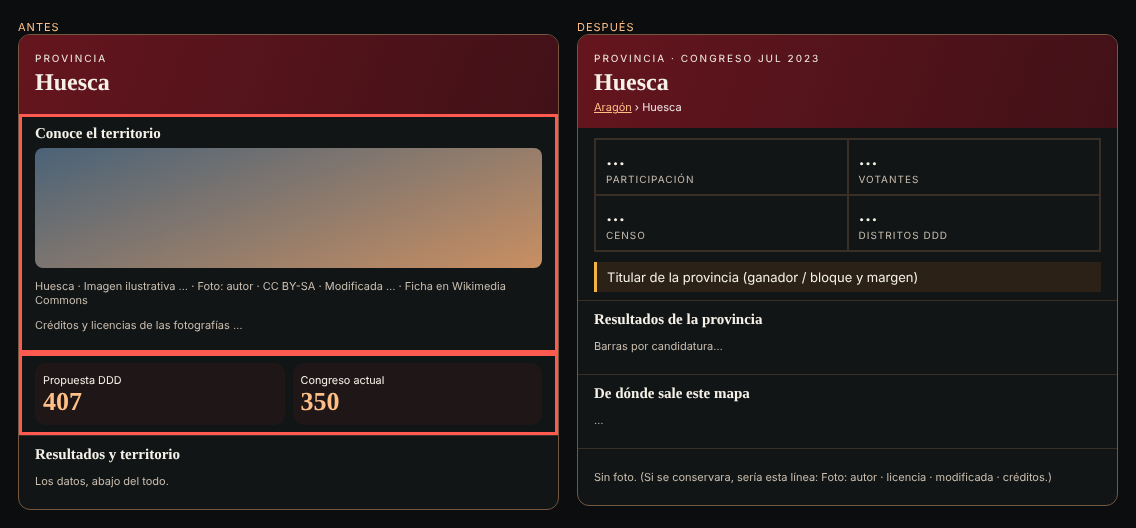
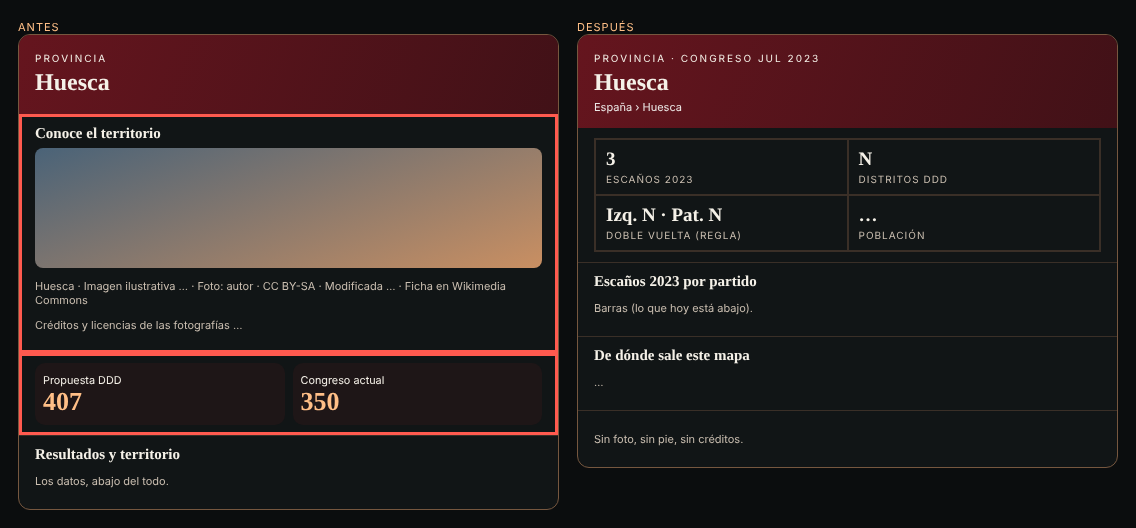
T-458: diseño 1.3.0 con el rumbo del propietario (colores firmes, panel con datos arriba, ventana emergente del distrito)

diff --git a/docs/ESTUDIOS/T458_mapa_v4/maqueta.html b/docs/ESTUDIOS/T458_mapa_v4/maqueta.html
@@ -1,7 +1,6 @@
 <!doctype html>
 <!-- PROYECTO: Diputado de Distrito · CLASE: maqueta de diseño T-458 (no se publica) · VERSIÓN: 1.0.0 · FECHA: 2026-11-24 · ESTADO: propuesta
-     ANTERIOR: ninguna (fichero nuevo). Datos de EJEMPLO salvo la ficha de sección, que usa la sección 2212504001
-     (Huesca) del ZIP oficial de Interior 02202307_MESA.zip (sha256 e78fc231…17f8), solo para ilustrar el diseño. -->
+     ANTERIOR: ninguna (fichero nuevo). Datos de EJEMPLO, solo para ilustrar el diseño. -->
 <html lang="es"><head><meta charset="utf-8"><title>T-458 maqueta</title>
 <style>
 body{margin:0;background:#0b0d0e;color:#f5f1e8;font:13px system-ui,sans-serif}
@@ -26,21 +25,8 @@ a{color:#ffbf87}
 <section class="lam" id="colores">
  <div><span class="tag">Antes · tema oscuro del sistema</span><h2>Vista mayoritaria hoy</h2><div class="map" id="m0" style="background:#eef3f7"></div><div class="ley" id="l0"></div>
   <p class="nota">Tokens de tema oscuro (#ff8a80, #4fd1c5, #7fb2ff) + aclarado del 55 % + opacidad 0,84-0,88 sobre fondo claro #eef3f7 y bordes blancos.</p></div>
- <div><span class="tag">Después · patrón de la referencia</span><h2>Tonos firmes sobre fondo oscuro</h2><div class="map" id="m1" style="background:#0b0d0e"></div><div class="ley" id="l1"></div>
-  <p class="nota">Fondo #0b0d0e, opacidad 0,88 (1 al pasar el ratón), bordes oscuros, 4 escalones por ventaja (≤ 2, ≤ 5, ≤ 10, &gt; 10 puntos): a más ventaja, más intenso.</p></div>
-</section>
-<!-- LÁMINA 2: ficha de sección -->
-<section class="lam" id="ficha">
- <div><span class="tag">Antes · clic en una sección</span>
-  <div class="panel"><div class="hero"><small>Sección censal INE</small><h1>Sección 2212504001</h1><p>Huesca › Distrito 4</p></div>
-  <div class="sec"><dl><div><dt>Población</dt><dd>…</dd></div><div><dt>Distrito DDD</dt><dd>4</dd></div><div class="mal"><dt>Ganador del distrito 2023</dt><dd>(el del distrito)</dd></div></dl></div>
-  <div class="sec mal"><h3>Doble vuelta · distrito 4 · Tres bloques</h3><p>Gana … en el distrito 4</p><p class="nota">Igual para todas las secciones del distrito.</p></div></div></div>
- <div><span class="tag">Después · datos reales de la sección (ZIP de Interior)</span>
-  <div class="panel"><div class="hero"><small>Sección · Congreso jul 2023</small><h1>Huesca · 04-001</h1><p><a href="#">Aragón</a> › <a href="#">Huesca</a> › <a href="#">Distrito N</a> › 04-001</p></div>
-  <div class="kpi"><div><strong>61,2 %</strong><span>Participación</span></div><div><strong>913</strong><span>Votantes</span></div><div><strong>1.491</strong><span>Censo</span></div><div><strong>12,9</strong><span>Margen 1.º-2.º</span></div></div>
-  <p class="titular"><b>PSOE</b> supera a <b>PP</b> por <b>12,9</b> puntos en esta sección</p>
-  <div class="sec"><h3>900 votos a candidaturas</h3><div class="row"><b>PSOE</b><div class="tr"><b style="width:100%;background:#d32b2b"></b></div><span>364</span><span>40,4 %</span></div><div class="row"><b>PP</b><div class="tr"><b style="width:68%;background:#1d6fb8"></b></div><span>248</span><span>27,6 %</span></div><div class="row"><b>VOX</b><div class="tr"><b style="width:43%;background:#5fa335"></b></div><span>155</span><span>17,2 %</span></div><div class="row"><b>SUMAR</b><div class="tr"><b style="width:29%;background:#cf2a7b"></b></div><span>106</span><span>11,8 %</span></div>
-   <p class="nota">Origen de los datos: Ministerio del Interior, resultados por mesa sumados por sección.</p></div></div></div>
+ <div><span class="tag">Después · como «Partido más votado»</span><h2>Tonos firmes, mismo mapa</h2><div class="map" id="m1" style="background:#eef3f7"></div><div class="ley" id="l1"></div>
+  <p class="nota">Mismo fondo y mismos bordes; bloques con los tonos firmes de la capa de partidos (#d32b2b, #0f7a52, #1d6fb8, #5b6470), opacidad 0,88 como esa capa y sin aclarado.</p></div>
 </section>
 <!-- LÁMINA 3: panel derecho -->
 <section class="lam" id="panel">
@@ -48,22 +34,26 @@ a{color:#ffbf87}
   <div class="sec mal"><h3>Conoce el territorio</h3><div class="foto"></div><p class="nota">Huesca · Imagen ilustrativa … · Foto: autor · CC BY-SA · Modificada … · Ficha en Wikimedia Commons</p><p class="nota">Créditos y licencias de las fotografías …</p></div>
   <div class="cards mal"><div><small>Propuesta DDD</small><strong>407</strong></div><div><small>Congreso actual</small><strong>350</strong></div></div>
   <div class="sec"><h3>Resultados y territorio</h3><p class="nota">Los datos, abajo del todo.</p></div></div></div>
- <div><span class="tag">Después</span><div class="panel"><div class="hero"><small>Provincia · Congreso jul 2023</small><h1>Huesca</h1><p><a href="#">Aragón</a> › Huesca</p></div>
-  <div class="kpi"><div><strong>…</strong><span>Participación</span></div><div><strong>…</strong><span>Votantes</span></div><div><strong>…</strong><span>Censo</span></div><div><strong>…</strong><span>Distritos DDD</span></div></div>
-  <p class="titular">Titular de la provincia (ganador / bloque y margen)</p>
-  <div class="sec"><h3>Resultados de la provincia</h3><p class="nota">Barras por candidatura…</p></div>
+ <div><span class="tag">Después</span><div class="panel"><div class="hero"><small>Provincia · Congreso jul 2023</small><h1>Huesca</h1><p>España › Huesca</p></div>
+  <div class="kpi"><div><strong>3</strong><span>Escaños 2023</span></div><div><strong>N</strong><span>Distritos DDD</span></div><div><strong>Izq. N · Pat. N</strong><span>Doble vuelta (regla)</span></div><div><strong>…</strong><span>Población</span></div></div>
+  <div class="sec"><h3>Escaños 2023 por partido</h3><p class="nota">Barras (lo que hoy está abajo).</p></div>
   <div class="sec"><h3>De dónde sale este mapa</h3><p class="nota">…</p></div>
-  <div class="sec"><p class="nota">Sin foto. (Si se conservara, sería esta línea: Foto: autor · licencia · modificada · créditos.)</p></div></div></div>
+  <div class="sec"><p class="nota">Sin foto, sin pie, sin créditos.</p></div></div></div>
 </section>
-<!-- LÁMINA 4: navegación distrito ↔ sección -->
-<section class="lam" id="navegacion">
- <div><span class="tag">Antes · nivel sección</span><h2>Todas del color del distrito</h2><svg id="s0" width="520" height="300" style="background:#eef3f7;border-radius:10px"></svg>
-  <p class="nota">Sin resaltado; los límites de distrito desaparecen al bajar a secciones; el clic no cambia nada visible.</p></div>
- <div><span class="tag">Después · datos de EJEMPLO</span><h2>Cada sección, su color</h2><svg id="s1" width="520" height="300" style="background:#0b0d0e;border-radius:10px"></svg>
-  <p class="nota">Color por lo más votado en la sección; límite de distrito crema encima; sección elegida con trazo #f2b544 y opacidad 1; otro clic la cambia.</p></div>
+<!-- LÁMINA 4: clic en un distrito -->
+<section class="lam" id="distrito">
+ <div><span class="tag">Antes · clic en un distrito</span><h2>Salta a secciones</h2><svg id="d0" width="520" height="300" style="background:#eef3f7;border-radius:10px"></svg>
+  <p class="nota">El mapa se acerca hasta zoom 12; al pasar de 7,2 cambia solo a «Sección censal» y oculta los distritos; el distrito clicado desaparece.</p></div>
+ <div><span class="tag">Después · datos de EJEMPLO</span><h2>Pop-up del distrito, sin bajar</h2><div style="position:relative"><svg id="d1" width="520" height="300" style="background:#eef3f7;border-radius:10px"></svg>
+  <div style="position:absolute;left:250px;top:40px;width:230px;background:#111516;border:1px solid #76573f;border-radius:10px;padding:10px 12px;box-shadow:0 6px 22px #0006">
+   <small style="letter-spacing:1px;text-transform:uppercase;color:#ffbf87;font-size:10px">Distrito · Huesca</small><h3 style="font:700 17px Georgia,serif;margin:2px 0 6px">Distrito 2</h3>
+   <p style="margin:0 0 6px"><b style="color:#ff8a80">Izquierdas</b> gana en 2.ª vuelta (Tres bloques)</p>
+   <dl><div><dt>1.ª vuelta, más votado</dt><dd>…</dd></div><div><dt>2.ª vuelta</dt><dd>… % – … %</dd></div><div><dt>Población · desviación</dt><dd>… · … %</dd></div></dl>
+   <p class="nota" style="margin:6px 0 0">Ficha completa en el panel →</p></div></div>
+  <p class="nota">El mapa encuadra la provincia (no el distrito) y se queda en distritos; el distrito elegido, con borde grueso; otro clic cambia el pop-up.</p></div>
 </section>
 <script>
-const S={izq:["#f2707a","#e0303d","#c1121f","#8e0d17"],pat:["#6f95e8","#3f6fdb","#1d4fc0","#12368a"],nac:["#4fc1a8","#1e9c82","#00796b","#00544a"],sin:["#8a8f94"]};
+const S={izq:["#d32b2b"],pat:["#1d6fb8"],nac:["#0f7a52"],sin:["#5b6470"]};
 const P0={izq:"#ff8a80",nac:"#4fd1c5",pat:"#7fb2ff",sin:"#a8b0bb"};
 const mix=(h,t)=>{const n=parseInt(h.slice(1),16);return"#"+[n>>16,(n>>8)&255,n&255].map(c=>Math.round(c+(255-c)*t).toString(16).padStart(2,"0")).join("")};
 const N={izq:"Izquierdas",nac:"Nacionalistas",pat:"Patriotas",sin:"Sin bloque"};
@@ -71,14 +61,12 @@ let r=11;const rnd=()=>{r=(r*9301+49297)%233280;return r/233280};
 const A=Array.from({length:24},()=>{const k=["izq","pat","izq","pat","nac","sin"][Math.floor(rnd()*6)];return[k,Math.floor(rnd()*4)]});
 document.getElementById("m0").innerHTML=A.map(([k,s])=>`<i style="background:${s<1?mix(P0[k],.55):P0[k]};opacity:.86;outline:1px solid #fff"></i>`).join("");
 document.getElementById("l0").innerHTML=Object.keys(N).map(k=>`<span><b style="background:${P0[k]}"></b><b style="background:${mix(P0[k],.55)}"></b>${N[k]}</span>`).join("");
-document.getElementById("m1").innerHTML=A.map(([k,s])=>`<i style="background:${S[k][Math.min(s,S[k].length-1)]};opacity:.88"></i>`).join("");
+document.getElementById("m1").innerHTML=A.map(([k,s])=>`<i style="background:${S[k][0]};opacity:.88;outline:1px solid #fff"></i>`).join("");
 document.getElementById("l1").innerHTML=Object.keys(N).map(k=>`<span>${S[k].map(c=>`<b style="background:${c}"></b>`).join("")}${N[k]}</span>`).join("");
-(function(){const W=10,H=6,cw=48,ch=46,ox=20,oy=10;let q=7;const rn=()=>{q=(q*9301+49297)%233280;return q/233280};
-const dist=(i,j)=>i<5?(j<3?0:1):(j<3?2:3);const dc=[["izq",0],["pat",0],["pat",1],["izq",1]];
-const cell=(i,j,f,s,w,o)=>`<rect x="${ox+i*cw}" y="${oy+j*ch}" width="${cw}" height="${ch}" fill="${f}" fill-opacity="${o}" stroke="${s}" stroke-width="${w}"/>`;
-let a="",b="";for(let i=0;i<W;i++)for(let j=0;j<H;j++){const d=dc[dist(i,j)];a+=cell(i,j,d[1]?mix(P0[d[0]],.55):P0[d[0]],"#fff",.6,.86);
- const k=rn()<.55?d[0]:["izq","pat","nac"][Math.floor(rn()*3)];b+=cell(i,j,S[k][Math.floor(rn()*4)],"#0b0d0e",.6,.88);}
-const lin=`<path d="M${ox+5*cw} ${oy}V${oy+H*ch}M${ox} ${oy+3*ch}H${ox+W*cw}" stroke="#f5f1e8" stroke-width="2" fill="none"/><rect x="${ox}" y="${oy}" width="${W*cw}" height="${H*ch}" fill="none" stroke="#f5f1e8" stroke-width="2"/>`;
-const sel=`<rect x="${ox+6*cw}" y="${oy+ch}" width="${cw}" height="${ch}" fill="${S.izq[3]}" stroke="#f2b544" stroke-width="3"/>`;
-document.getElementById("s0").innerHTML=a;document.getElementById("s1").innerHTML=b+lin+sel;})();
+(function(){const W=10,H=6,cw=48,ch=46,ox=20,oy=10;const blk=[["#d32b2b","#1d6fb8"],["#1d6fb8","#d32b2b"]];
+let a="",b="";for(let i=0;i<W;i++)for(let j=0;j<H;j++){const c=i<5?(j<3?"#ff8a80":"#c5dcff"):(j<3?"#7fb2ff":"#ffcac6");a+=`<rect x="${ox+i*cw}" y="${oy+j*ch}" width="${cw}" height="${ch}" fill="${c}" fill-opacity=".86" stroke="#fff" stroke-width=".6"/>`;}
+const D=[[0,0,5,3,"#d32b2b"],[5,0,5,3,"#1d6fb8"],[0,3,5,3,"#1d6fb8"],[5,3,5,3,"#d32b2b"]];
+for(const[x,y,w,h,c]of D)b+=`<rect x="${ox+x*cw}" y="${oy+y*ch}" width="${w*cw}" height="${h*ch}" fill="${c}" fill-opacity=".88" stroke="#fff" stroke-width="1"/>`;
+b+=`<rect x="${ox}" y="${oy+3*ch}" width="${5*cw}" height="${3*ch}" fill="none" stroke="#111" stroke-width="5"/><rect x="${ox}" y="${oy+3*ch}" width="${5*cw}" height="${3*ch}" fill="none" stroke="#fff" stroke-width="2"/>`;
+document.getElementById("d0").innerHTML=a;document.getElementById("d1").innerHTML=b;})();
 </script></body></html>

diff --git a/docs/ESTUDIOS/T458_mapa_v4/T458_DISENO_MAPA_V4.md b/docs/ESTUDIOS/T458_mapa_v4/T458_DISENO_MAPA_V4.md
@@ -1,173 +1,97 @@
 # T-458 · Diseño al detalle del mapa de la V4 (Explorar)
 
-VERSIÓN: 1.2.0 · FECHA: 2026-11-24 · ESTADO: propuesta para aprobación del propietario
-CAMBIOS 1.2.0: rehecho a partir de la referencia del propietario (el Observatorio, nazioenbehatokia.eus): comparación
-  pantalla a pantalla, paleta y tonos de allí, panel con los datos arriba y sin foto, datos por sección del Observatorio
-  con cuadre contra nuestro ZIP oficial; preguntas rehechas (incluye 5-7).
-CAMBIOS 1.1.0: puntos (5) navegación por distrito, (6) color propio de cada sección y (7) interacción con secciones.
-MOTIVO: comentarios del propietario vía Coordinador (24-11).
-ANTERIOR: 1.1.0 en el commit a0bb74c y 1.0.0 en b90579e de esta misma PR (documento sin fusionar; sin copia en `legacy/`)
+VERSIÓN: 1.3.0 · FECHA: 2026-11-25 · ESTADO: propuesta para aprobación del propietario
+CAMBIOS 1.3.0: corrección de rumbo del propietario (25-11): nuestro mapa, sin copiar otra web; colores firmes como la capa de
+  resultados; panel con los datos arriba; clic en distrito con ventana emergente y sin bajar a secciones. Fuera por ahora: nivel de
+  sección, producto de votos por sección, fondo oscuro y paleta ajena. Preguntas reducidas a las imprescindibles.
+CAMBIOS 1.2.0 y 1.1.0 (commits 8baaf19 y a0bb74c de esta PR): versión sobre la web de referencia y puntos 5-7; sustituidas.
+MOTIVO: comentarios del propietario vía Coordinador.
+ANTERIOR: 1.2.0 en el commit 8baaf19 de esta misma PR (documento sin fusionar; sin copia en `legacy/`)
 
-Objeto: `visor/v4/mapa/` (`index.html` 1.3.0, `explorar.js`, `explorar.css`, `dv.js`). Solo diseño; nada de código de
-producto hasta que el propietario apruebe. Capturas: `antes_visor_actual.png` (nuestro visor servido en local),
-`referencia/*.png` (el Observatorio, 24-11-2026, Huesca, solo para comparar) y láminas de `maqueta.html`.
+Objeto: `visor/v4/mapa/` (`index.html` 1.3.0, `explorar.js`, `explorar.css`). Solo diseño; ningún cambio de código de producto
+hasta que el propietario apruebe. Capturas: `antes_visor_actual.png` (nuestro visor servido en local) y las láminas de
+`maqueta.html` (`colores.png`, `panel.png`, `distrito.png`; datos de ejemplo).
 
-## 0. La referencia: qué hace el Observatorio
+## 1. Mapa: mismo mapa, colores firmes y sin pérdida de nitidez
 
-| Pantalla | Observatorio | DDD hoy |
+### Por qué la vista mayoritaria (doble vuelta) se ve en azul difuso
+La capa «Partido más votado» (la vista de resultados) pinta con la `PALETA` de partidos (`PP #1d6fb8`, `PSOE #d32b2b`, …),
+opacidad 0,88 y sin mezclas: es la referencia de firmeza. La doble vuelta no:
+1. `bloques()` toma los tokens de `tokens-bloques.css`; con el sistema en tema oscuro son pasteles pensados para texto sobre
+   fondo oscuro: Patriotas `#7fb2ff`, Izquierdas `#ff8a80`, Nacionalistas `#4fd1c5`, Sin bloque `#a8b0bb`.
+2. `aclarar()` los mezcla un 55 % con blanco cuando la ventaja es < 5 puntos (Patriotas pasa a `#c5dcff`).
+3. Encima, la opacidad 0,88 deja ver el fondo azulado `#eef3f7`.
+
+### Nitidez: revisado
+- **Geometría de distritos del mapa** (`datos/<territorio>/distritos.geojson`, `herramientas/generar_datos_abiertos.py`): sin
+  simplificación ni redondeo. No pierde resolución.
+- **Geometría pública de la doble vuelta** (`herramientas/publicar_doble_vuelta.py`): Douglas-Peucker por anillo, 0,0005°
+  (≈ 55 m), 5 decimales. Hoy el mapa no la dibuja (pinta la de `datos/`); si algún día la usara, simplificar por anillo
+  deja huecos y solapes entre distritos vecinos: no usarla para dibujar.
+- **Pérdida real de nitidez: los colores**, no la geometría (los tres puntos de arriba). La opacidad 0,88 es la misma que en la
+  capa de partidos y se mantiene igual en las dos.
+
+### Propuesta
+- Bloques con tonos firmes de la familia de la capa de partidos, fijos en tema claro y oscuro (el mapa no cambia de tema):
+
+| Bloque | Hoy en tema oscuro | Propuesta |
 |---|---|---|
-| Fondo y bordes | Fondo oscuro `#0C131A`; bordes oscuros finos (0,3 px sección, 0,6 px resto) | Fondo claro `#eef3f7`; bordes blancos |
-| Relleno | Color propio del partido o del bloque, opacidad 0,88; 1 al pasar el ratón | Pasteles del tema oscuro aclarados un 55 %, opacidad 0,82-0,88 |
-| Niveles | Selector «Automático (según el zoom)» y niveles fijos; el clic funciona en todos | Salto a secciones al acercar que oculta los distritos |
-| Clic | Resalta (trazo `#F2B544` de 2,5 px, `feature-state` `sel`) y abre la ficha de ESE territorio | Sin resaltado; la ficha de sección da datos del distrito |
-| Otro clic | Cambia la selección y la ficha (secciones 07-004 → 04-001 en las capturas) | Parece muerto |
-| Paso del ratón | Etiqueta: nombre, participación, margen, más votado y % | No hay |
-| Panel derecho | Arriba: nombre, nivel y elección, ruta clicable, 4 cifras (participación, votantes, censo, margen 1.º-2.º), titular «X supera a Y por N puntos», barras por candidatura | Arriba: foto con pie y licencia; 407/350; los datos, abajo |
-| Leyenda | «Primera fuerza por nivel: sección» con el número de territorios por partido | Lista de bloques |
-| Ruta | En la cabecera y en la ficha: Estado › Aragón › Huesca › Huesca › 07-004 | «Huesca › Distrito 4» en la ficha de sección |
+| Izquierdas | `#ff8a80` | `#d32b2b` (el de PSOE en la capa de partidos) |
+| Patriotas | `#7fb2ff` | `#1d6fb8` (el de PP) |
+| Nacionalistas | `#4fd1c5` | `#0f7a52` (el de EH Bildu) |
+| Sin bloque | `#a8b0bb` | `#5b6470` |
 
-![Observatorio: clic en una sección](referencia/ref_clic_seccion.png)
-![Observatorio: otro clic cambia la selección](referencia/ref_otra_seccion.png)
-![Observatorio: clic en un municipio](referencia/ref_clic_municipio.png)
-![DDD hoy (provincia de Huesca no publicada en local; Madrid)](antes_visor_actual.png)
-
-Capturas «antes» del clic en distrito y en sección de nuestro visor: el entorno no alcanza diputadodedistrito.es y el
-local no tiene los productos de distritos ni secciones (viven en R2 y se montan en P40). El comportamiento de antes sale del
-código (§1) y se ilustra en las láminas; si hace falta la captura real, se monta el sitio con P40 en modo prueba
-(pregunta 18).
-
-## 1. Diagnóstico del código de hoy (`explorar.js`)
-- **No hay resaltado en ningún nivel:** `S.selected` no lo pinta ninguna capa; fuentes sin `promoteId` ni `feature-state`.
-- **El distrito se pierde al clicarlo:** `focus()` encuadra hasta zoom 12; `zoomend` (≥ 7,2) pasa solo a «Sección
-  censal» y `prepareArea` oculta `dist-fill` y `dist-line`.
-- **Con secciones visibles no se puede elegir distrito** (capas ocultas, sin límite de distrito encima).
-- **Ficha de sección con datos del distrito:** «Ganador del distrito 2023» y la doble vuelta del distrito
-  (`dvDist = obj.parentDistrict ?? obj.d`); ruta «Huesca › Distrito 4».
-- **Secciones del color de su distrito** (`sec-fill` usa la expresión del distrito).
-- **Colores difusos:** `bloques()` lee los tokens de `tokens-bloques.css`, que en tema oscuro dan pasteles para texto
-  (`#ff8a80`, `#4fd1c5`, `#7fb2ff`); `aclarar()` los mezcla un 55 % con blanco; fondo claro y bordes blancos.
-
-## 2. Propuesta
-
-### 2.1 Regla de niveles (4, c)
-Clicar un territorio muestra los datos de ESE nivel y nada más: España, comunidad, provincia, distrito (incluida la doble
-vuelta) o sección. Entre niveles solo hay navegación (ruta clicable), nunca datos de otro nivel.
-
-### 2.2 Mapa (1, a)
-- Fondo del mapa `#0b0d0e` (el `--coal` de la web), «sin dato» `#2a3946`, bordes `#0b0d0e` (0,3 px sección, 0,6 px
-  distrito); a nivel sección, el límite de distrito encima en crema `#f5f1e8` 1,5 px.
-- Relleno con opacidad 0,88; 1 en el territorio bajo el ratón y en el elegido.
-- Selección: trazo `#f2b544` 2,5 px.
-- Bloques, 4 escalones por ventaja sobre el segundo (≤ 2, ≤ 5, ≤ 10, > 10 puntos; a más ventaja, más intenso):
-
-| Bloque | ≤ 2 | ≤ 5 | ≤ 10 | > 10 |
-|---|---|---|---|---|
-| Izquierdas | `#f2707a` | `#e0303d` | `#c1121f` | `#8e0d17` |
-| Nacionalistas | `#4fc1a8` | `#1e9c82` | `#00796b` | `#00544a` |
-| Patriotas | `#6f95e8` | `#3f6fdb` | `#1d4fc0` | `#12368a` |
-| Sin bloque | `#8a8f94` | | | |
-
-- Capa «Partido más votado»: el color propio del partido, sin aclarar (la `PALETA` de hoy).
-- Mismos valores en tema claro y oscuro (el mapa siempre es oscuro, como la web).
+- Sin aclarado: la ventaja ajustada (< 5 puntos) se dice en la ventana emergente y en el panel, no con un color lavado.
+- Opacidad y bordes iguales a la capa de partidos (0,88; blanco 0,8 px).
 
 ![Colores: antes y después](colores.png)
 
-### 2.3 Panel derecho (b, 2, 3)
-Arriba del todo, los datos de lo clicado: cabecera (nombre, nivel y elección, ruta clicable), 4 cifras, titular y barras;
-después «De dónde sale este mapa». Fuera la foto, «Conoce el territorio», su pie y créditos, y el bloque 407/350.
-La licencia no obliga a nada si no hay foto; si el propietario la conservara, una línea al final (autor, licencia,
-modificada, enlace a créditos), que es lo que exigen CC BY y CC BY-SA.
+## 2. Panel derecho (prioritario)
+
+Hoy, de arriba abajo: cabecera, «Conoce el territorio» (foto, descripción, autor, licencia, cambios, créditos), tarjetas 407/350 y,
+al final, los datos.
+
+Propuesta, de arriba abajo:
+1. Cabecera: nivel y elección, nombre, ruta (España › Huesca › Distrito 2).
+2. **Cuatro cifras de lo seleccionado** (ver tabla).
+3. Bloque de resultados de ese nivel (lo que hoy está abajo: escaños por partido en la provincia; 1.ª y 2.ª vuelta en el distrito).
+4. «Resultados en tabla» y «De dónde sale este mapa».
+
+Fuera: foto, «Conoce el territorio», pie, licencia, créditos y «407 / 350». Sin foto la licencia no obliga a nada.
+
+| Selección | Cuatro cifras |
+|---|---|
+| España | escaños 2023 (350), distritos DDD, bloques ganadores con la regla elegida, población |
+| Provincia | escaños 2023, distritos DDD, bloques ganadores con la regla, población |
+| Distrito | bloque ganador y vuelta decisiva, 2.ª vuelta (% – %), más votado en 1.ª vuelta, población y desviación |
+
+Las cifras salen de lo que ya carga el visor (escaños oficiales, composición, CSV de doble vuelta); no hacen falta datos nuevos.
 
 ![Panel: antes y después](panel.png)
 
-### 2.4 Ficha por nivel
-| Nivel | 4 cifras | Titular | Barras |
-|---|---|---|---|
-| Sección | participación, votantes, censo, margen 1.º-2.º | «X supera a Y por N puntos en esta sección» | votos por candidatura |
-| Distrito | participación, votantes, censo, margen | ganador de la doble vuelta con la regla elegida | 1.ª y 2.ª vuelta (lo de hoy) |
-| Provincia | participación, votantes, censo, distritos DDD | ganador / bloque y margen | votos y escaños 2023 |
-| Comunidad / España | idem | idem | idem |
+## 3. Clic en un distrito: ventana emergente, sin bajar a secciones
 
-![Ficha de sección: antes y después (datos reales de la sección 2212504001)](ficha.png)
+Hoy (`explorar.js`): el clic hace `focus()` hasta zoom 12; al terminar el zoom, `zoomend` (≥ 7,2, casilla «Detalle de secciones al
+acercar») cambia solo a «Sección censal» y `prepareArea` oculta los distritos. No hay resaltado del distrito elegido.
 
-### 2.5 Navegación e interacción (5, 6, 7)
-1. Capas de abajo arriba: relleno → bordes → límite de distrito (a nivel sección) → selección → paso del ratón.
-2. `promoteId` (`s` en sección, id en distrito) y `feature-state` `{sel, hover}`.
-3. Clic: elige lo visible del nivel activo; resalta; abre su ficha. Otro clic sustituye la selección. Clic fuera o `Esc`:
-   sube al nivel padre.
-4. Nivel «Automático (según el zoom)» por defecto, como la referencia, y niveles fijos en el selector. Al cambiar de nivel
-   por zoom no se pierde la selección: un distrito elegido sigue resaltado a nivel sección. El clic en un distrito encuadra
-   sin pasar el umbral de secciones.
-5. Etiqueta al pasar el ratón: nombre, participación, margen, más votado y %.
-6. Leyenda «Primera fuerza por nivel» con el número de territorios por bloque o partido.
-7. Teclado: `sr-status` anuncia la selección; tabla y buscador eligen igual que el clic.
+Propuesta:
+- Clic en un distrito: ventana emergente de MapLibre junto al punto con nombre, provincia, bloque ganador y vuelta, 2.ª vuelta,
+  más votado en 1.ª vuelta, población y desviación; el panel se actualiza con la ficha completa del distrito.
+- El mapa no se acerca al distrito ni cambia de nivel; el distrito elegido lleva borde grueso (resaltado con `feature-state`).
+  Otro clic cambia la ventana y el resaltado; clic fuera o `Esc` la cierra.
+- Se retiran el salto automático a secciones (`zoomend`), la casilla «Detalle de secciones al acercar» y las opciones
+  «Municipio (secciones)» y «Sección censal» del selector de nivel.
 
-![Navegación: antes y después](navegacion.png)
-
-## 3. Datos por sección
-
-### 3.1 Qué tenemos
-| Dato | Dónde | Fuente | En la web |
-|---|---|---|---|
-| Geometría, CUSEC, municipio, distrito, población | `v2/datos/secciones/<prov>.geojson` (P40) | INE, seccionado 2025 (sha256 `55c9da7e…bcc4`) | Sí |
[1 lines of base64/hex data omitted]
-| Autonómicas por sección | Entradas de T-426 y paquetes P10 de R2 | Cada comunidad (Asturias, solo municipio) | No |
-
-### 3.2 Qué sirve el Observatorio
-- Por elección y provincia: `data/<AAAAMM>/sekzioa/<cpro>.json` (autonómicas: `data/autonomikoak/sekzioa/<elección>/<cpro>.json`);
-  geometría en `geo/sekzioak/<año>/<cpro>.json` (2023 se dibuja con el seccionado 2024).
-- Formato: `s` (siglas), `k` (color), `f` (familia), `b` (bloque), `r` = {CUSEC: [censo, votantes, votos a candidaturas,
-  [[índice de candidatura, votos]…]]}.
-- Sus fuentes declaradas: el mismo ZIP de Interior (mismo sha256, prefijo `e78fc231326a`) y el mismo seccionado 2025
-  (`55c9da7e34d3`). No declara licencia para sus ficheros derivados.
-
-### 3.3 Cuadre (hecho en local, 24-11-2026)
[1 lines of base64/hex data omitted]
-contra nuestro ZIP con `herramientas/fuente_infoelectoral_mesas.convert` y el fichero 09:
-- 286 secciones en ambos; votos por candidatura idénticos en las 286.
-- Votantes = blancos + nulos + candidaturas y votos a candidaturas: idénticos en las 286.
-- Censo: igual en 284; difiere en 2 (`2204801010`: 1713 frente a 1712; `2217201001`: 477 frente a 475). Sin averiguar
-  qué columna de censo usa.
-
-Conclusión: **nos vale como cuadre, no como fuente.** La fuente es nuestro ZIP oficial (ya en el repositorio, con
-contrato y huella); el Observatorio sirve para contrastar un producto nuestro, provincia a provincia.
-
-### 3.4 Qué falta
-Un producto «resultados por sección» (por provincia: CUSEC → censo, votantes, blancos, nulos, votos por candidatura y
-bloque), generado del ZIP con huella y servido como hoy los CSV de doble vuelta (índice `actual.json`, T-430), con el
-Observatorio como cuadre. Geometría: decidir si se dibuja 2023 con el seccionado de la elección (como la referencia) o con
-el de 2025 y las tablas de equivalencia de `configuracion/` (las secciones partidas, sin dato).
+![Clic en un distrito: antes y después](distrito.png)
 
 ## 4. Ficheros que tocaría la implementación
-`visor/v4/mapa/index.html`, `explorar.js`, `explorar.css`; `visor/v4/tokens-bloques.css` (o tokens propios del mapa);
-el pie de foto de `visor/v2/galeria/galeria.js` deja de usarse en Explorar. Para §3: una herramienta nueva y su paso en
-P40 (compartidos: turno del planificador). Cada fichero sube VERSIÓN con copia en `legacy/`.
+`visor/v4/mapa/index.html`, `explorar.js`, `explorar.css` y `visor/v4/tokens-bloques.css` (o tokens propios del mapa). Sin
+herramientas, workflows ni datos nuevos. Cada fichero sube VERSIÓN con copia en `legacy/`.
 
-## 5. Preguntas (con recomendación)
+## 5. Preguntas
 
-1. **Paleta.** ¿Se aprueban fondo oscuro, bordes oscuros, opacidad 0,88 y los 4 escalones por bloque de §2.2?
-   Recomendación: sí.
-2. **Escalones.** ¿4 por ventaja (≤ 2, ≤ 5, ≤ 10, > 10) o 2 (firme/ajustado a 5 puntos)? Recomendación: 4, como la referencia.
-3. **Panel.** ¿Datos arriba (cabecera, 4 cifras, titular, barras) y fuera foto, pie, créditos y 407/350? Recomendación: sí.
-4. **Foto.** ¿Fuera del todo o una línea al final? Recomendación: fuera del todo en Explorar (la galería sigue en su página).
-5. **Regla de niveles.** ¿Cada clic, los datos de su nivel; entre niveles solo la ruta? Recomendación: sí.
-6. **Ficha de sección mientras no haya producto por sección.** ¿Solo población, ruta y «sin escrutinio propio publicado»?
-   Recomendación: sí, y quitar ya «Ganador del distrito» y la doble vuelta de la ficha de sección.
-7. **Producto de resultados por sección** (§3.4) desde nuestro ZIP, con el Observatorio como cuadre. Recomendación: sí,
-   Congreso 2023 primero.
-8. **Geometría de 2023.** ¿Seccionado de la elección (2023, sin partidas) o 2025 con equivalencias? Recomendación: el de
-   la elección, como la referencia; el de 2025 solo para los distritos DDD.
-9. **Color propio de la sección** (6): bloque o partido más votado en la sección, con los escalones de §2.2; sin dato, gris.
-   Recomendación: sí; nunca el color del distrito.
-10. **Doble vuelta en la sección.** ¿Solo primera vuelta (votos y bloque) y la segunda en el distrito? Recomendación: sí.
-11. **Nivel automático por zoom** con selección persistente (§2.5.4), como la referencia. Recomendación: sí; sustituye a la
-    casilla «Detalle de secciones al acercar».
-12. **Resaltado** `#f2b544` 2,5 px y opacidad 1. Recomendación: sí.
-13. **Clic fuera o `Esc`** sube al nivel padre. Recomendación: sí.
-14. **Etiqueta al pasar el ratón** (nombre, participación, margen, más votado). Recomendación: sí.
-15. **Leyenda «Primera fuerza por nivel»** con recuentos. Recomendación: sí.
-16. **Capas de medida** (participación; margen ya va en los escalones). Recomendación: participación cuando exista §3.4.
-17. **Orden de trabajo.** Recomendación: PR 1 = mapa, panel e interacción sin datos nuevos (§2 salvo el color propio de
-    la sección); PR 2 = producto por sección y su color.
-18. **Capturas reales «antes»** del clic en distrito y sección: montar el sitio con datos (P40 en prueba o en local con R2).
-    Recomendación: no; el diagnóstico del código basta y la PR 1 traerá capturas reales del después.
+1. **Colores de los bloques:** `#d32b2b`, `#1d6fb8`, `#0f7a52`, `#5b6470`, fijos en los dos temas. Recomendación: sí.
+2. **Ventaja ajustada (< 5 puntos):** ¿sin color propio (solo en texto) o con un tono algo más claro? Recomendación: solo en texto.
+3. **Cuatro cifras del panel** según la tabla del §2. Recomendación: sí.
+4. **Nivel de sección:** ¿se retira del selector y del zoom (no solo del clic)? Recomendación: sí, hasta que exista el producto
+   por sección.

diff --git a/docs/registro/2026-11-24_t458-diseno-mapa-v4.md b/docs/registro/2026-11-24_t458-diseno-mapa-v4.md
@@ -1,8 +1,7 @@
 ## 2026-11-24 — T-458 — Diseño al detalle del mapa de la V4 (solo documentación)
 
-- `docs/ESTUDIOS/T458_mapa_v4/`: diseño rehecho a partir de la referencia del propietario (el Observatorio): comparación
-  pantalla a pantalla con capturas, paleta firme (fondo oscuro, opacidad 0,88, 4 escalones por ventaja), panel con los datos
-  arriba y sin foto ni 407/350, regla «cada clic, su nivel», navegación distrito ↔ sección con resaltado y selección viva,
-  color propio de cada sección. Inventario de datos por sección y cuadre de los del Observatorio contra nuestro ZIP de
-  Interior (Huesca: 286/286 secciones con votos idénticos; censo distinto en 2): valen como cuadre, no como fuente.
-  Maqueta, capturas y 18 preguntas con recomendación. Sin cambios de código de producto.
+- `docs/ESTUDIOS/T458_mapa_v4/` (1.3.0, rumbo del propietario del 25-11): nuestro mapa con los tonos firmes de la capa de
+  partidos para los bloques de la doble vuelta (causa del azul difuso: tokens de tema oscuro, aclarado del 55 % y fondo
+  azulado; la geometría de distritos no está simplificada), panel derecho con los datos de lo seleccionado arriba y sin foto,
+  créditos ni 407/350, y clic en distrito con ventana emergente sin bajar a secciones. Maqueta, capturas antes/después y 4
+  preguntas con recomendación. Sin cambios de código de producto.
